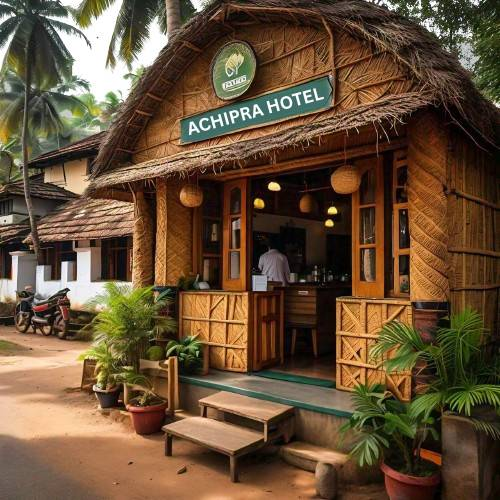
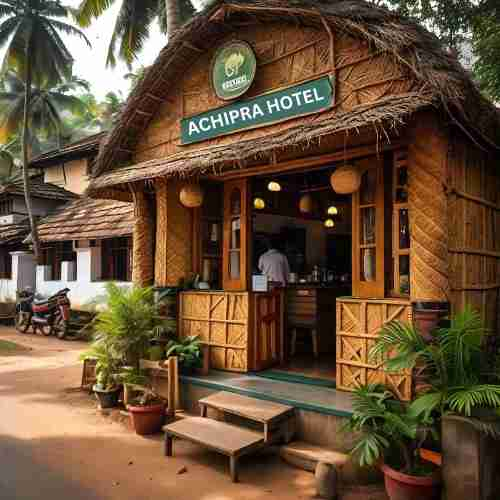
Compressed images in hero and about sections to improve LCP

diff --git a/index.html b/index.html
@@ -114,7 +114,7 @@
             <img
               src="img/hero.jpg"
               class="new-hero-class rounded animated zoomIn"
-              alt="Traditional Kerala sadhya meal served on a banana leaf" "
+              alt="Traditional Kerala sadhya meal served on a banana leaf" 
             />
           </div>
         </div>
